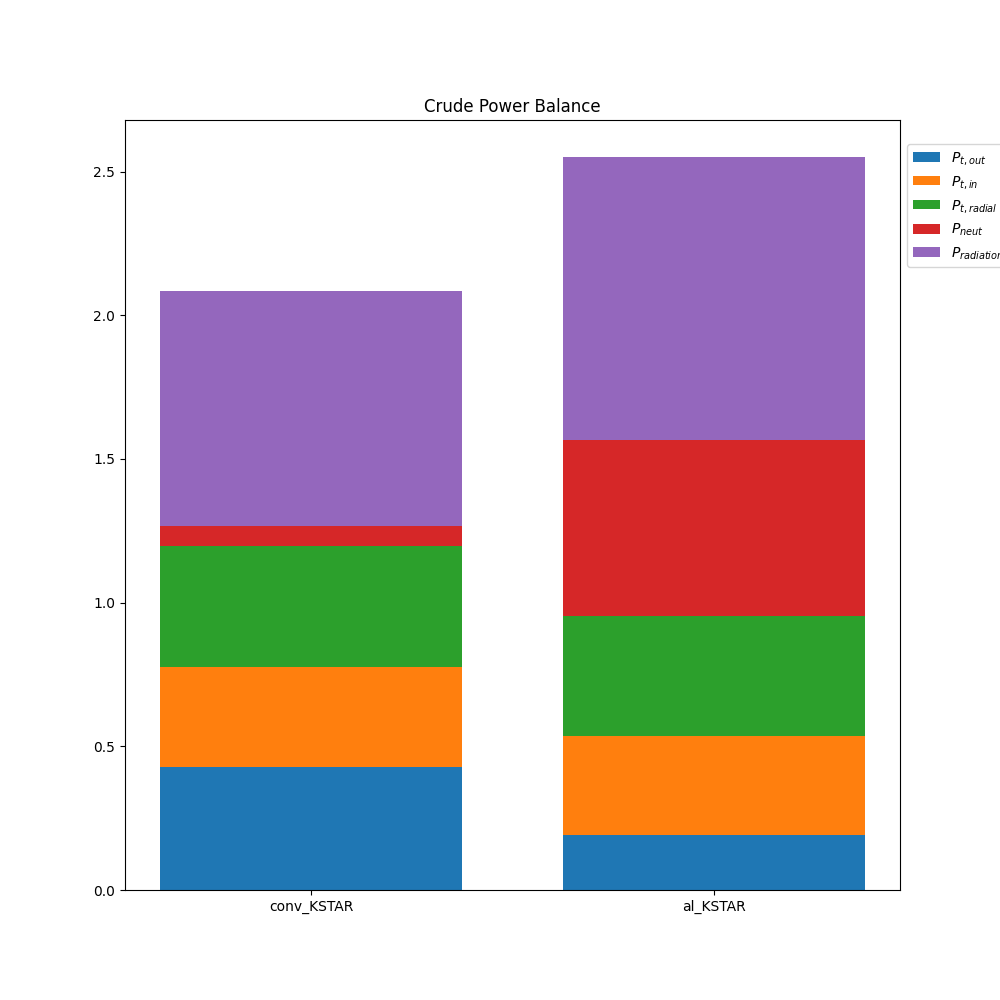
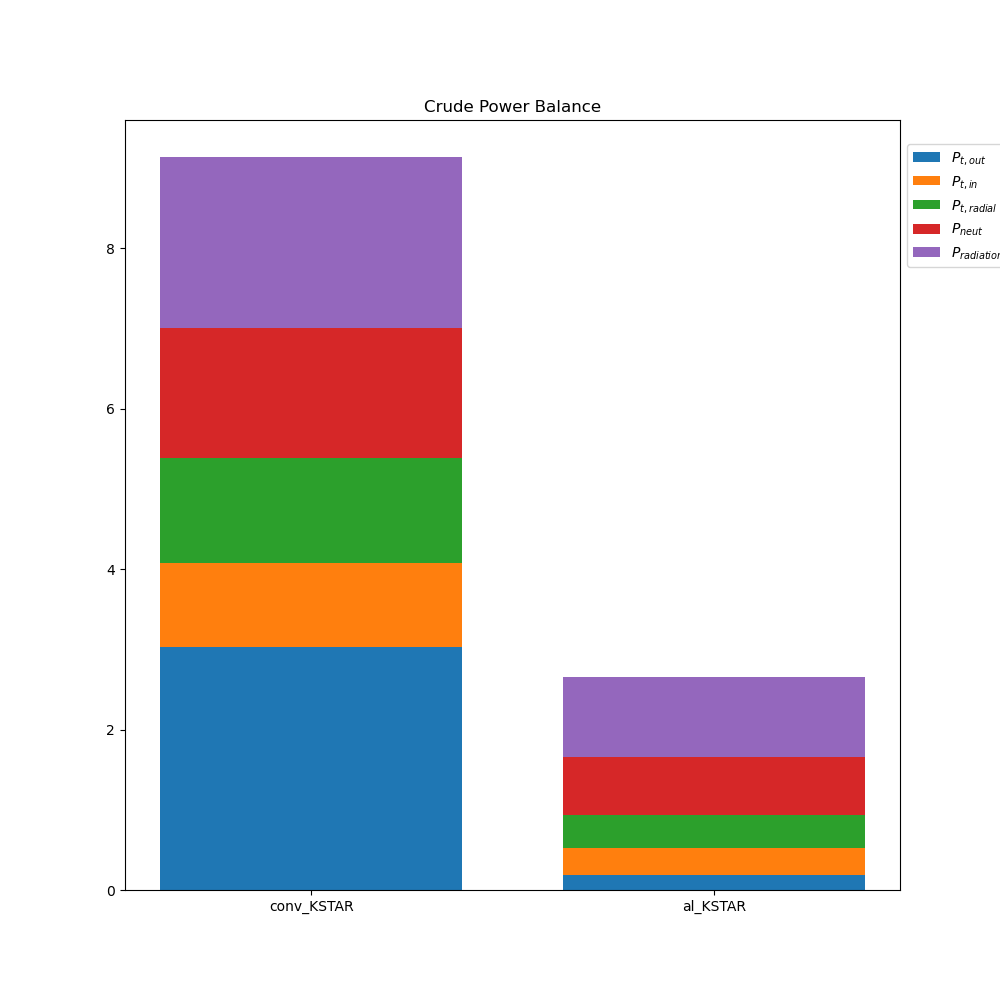
relocation

diff --git a/Integrated_Standalone_EB.py b/Integrated_Standalone_EB.py
@@ -14,15 +14,28 @@ fname_list = list()
 fpath_list = list()
 base_list  = list()
 data_list = list()
+puff = "noNe"
 
 ssh=paramiko.SSHClient()
 ssh.set_missing_host_key_policy(paramiko.AutoAddPolicy)
-fname_list.append("co_Ne_0_KSTAR")
-fpath_list.append("/home/chanyeong/solps-iter/runs/conventionalgeo_no_neon/Baseline_KSTAR")
-    
-fname_list.append("new_mesh_al_Ne_0_KSTAR")
-fpath_list.append("/home/chanyeong/solps-iter/runs/SAS_Ne_zero/Baseline_KSTAR")
+fname_list = list()
+fpath_list = list()
 
+fname_list.append("b2fplasmf_co_8MW_%s" %puff)
+fpath_list.append("/home/chanyeong/solps-iter/runs/Con_Ne_0_Heating/8MW_Con")
+#fname_list.append("b2fplasmf_co_16MW_%s" %puff)
+#fpath_list.append("/home/chanyeong/solps-iter/runs/Con_Ne_0_Heating/16MW_Con")
+#fname_list.append("b2fplasmf_co_32MW_%s" %puff)
+#fpath_list.append("/home/chanyeong/solps-iter/runs/Con_Ne_0_Heating/32MW_Con")
+
+fname_list.append("b2fplasmf_SAS_8MW_%s" %puff)
+fpath_list.append("/home/chanyeong/solps-iter/runs/SAS_Ne_0_Heating/2_5MW_SAS")
+#fname_list.append("b2fplasmf_SAS_8MW_%s" %puff)
+#fpath_list.append("/home/chanyeong/solps-iter/runs/SAS_Ne_0_Heating/8MW_SAS")
+#fname_list.append("b2fplasmf_SAS_16MW_%s" %puff)
+#fpath_list.append("/home/chanyeong/solps-iter/runs/SAS_Ne_0_Heating/16MW_SAS")
+#fname_list.append("b2fplasmf_SAS_32MW_%s" %puff)
+#fpath_list.append("/home/chanyeong/solps-iter/runs/SAS_Ne_0_Heating/32MW_SAS")
 
 ID = input("Insert ID : ")
 pw = getpass.getpass("Insert P.W : ")
@@ -223,7 +236,7 @@ def Global_internal_energy_balance(fht,nc):
         sum_eirene_mc_eipl_shi_bal = np.sum(eirene_mc_eipl_shi_bal)
         sum_eirene_mc_eppl_shi_bal = np.sum(eirene_mc_eppl_shi_bal)
 
-        return (sum_eirene_mc_eael_she_bal+sum_eirene_mc_emel_she_bal+sum_eirene_mc_eiel_she_bal+sum_eirene_mc_epel_she_bal +sum_eirene_mc_eapl_shi_bal+sum_eirene_mc_eapl_shi_bal+sum_eirene_mc_eapl_shi_bal+sum_eirene_mc_eapl_shi_bal)/1000000
+        return (sum_eirene_mc_eael_she_bal+sum_eirene_mc_emel_she_bal+sum_eirene_mc_eiel_she_bal+sum_eirene_mc_epel_she_bal +sum_eirene_mc_eapl_shi_bal+sum_eirene_mc_empl_shi_bal+sum_eirene_mc_eipl_shi_bal+sum_eirene_mc_eppl_shi_bal)/1000000
 
     def radiation_loss():
         stel_terms  = np.sum(nc_balance['b2stel_she_bal'][:])+np.sum(nc_balance['b2stel_she_ion_bal'][:])+np.sum(nc_balance['b2stel_she_rec_bal'][:])+np.sum(nc_balance['b2stel_shi_ion_bal'][:])+np.sum(nc_balance['b2stel_shi_rec_bal'][:]) 
@@ -255,7 +268,7 @@ def Global_internal_energy_balance(fht,nc):
 #    plt.axhline(color = 'black',linewidth = 0.5)
 
     plt.show()
-    return [heat_flux(fht)[0],heat_flux(fht)[1],heat_flux(fht)[2]+heat_flux(fht)[3]+heat_flux(fht)[4],-eirene_sum(),-radiation_loss(),-other_source()]
+    return [heat_flux(fht)[0],heat_flux(fht)[1],heat_flux(fht)[2]+heat_flux(fht)[3]+heat_flux(fht)[4],-eirene_sum(),-radiation_loss(),-other_source()-heating_terms()]
 
     
 out_div = np.zeros(len(fname_list))
@@ -264,8 +277,6 @@ in_div = np.zeros(len(fname_list))
 neutral_loss = np.zeros(len(fname_list))
 rad_loss = np.zeros(len(fname_list))
 other = np.zeros(len(fname_list))
-
-
 
 for k in range(len(fname_list)):
     fht_name = "/Users/chanyeonglee/LAB_local/data_postprocessing/output_new/fht_b2fplasmf_%s.npy" %fname_list[k]

diff --git a/SOLPS_control_codes/Run_b2wdat_iout.py b/SOLPS_control_codes/Run_b2wdat_iout.py
@@ -1,0 +1,59 @@
+import os, sys
+import subprocess
+from datetime import datetime
+
+current_dir = os.getcwd()
+text_file_path = './b2mn.dat'
+new_text_content = ''
+
+time = datetime.now()
+
+switch = 0
+position_return = 0
+
+with open(text_file_path,'r') as f:
+	lines = f.readlines()
+	for i, l in enumerate(lines):
+		if i == 6:
+			new_string = "'b2mndr_ntim'   '1'"
+		else:
+			new_string = l.strip()
+		if new_string:
+			new_text_content += new_string + '\n'
+		else:
+			new_text_content += '\n'
+
+with open(text_file_path,'w') as f:
+	f.write(new_text_content)
+
+
+new_text_content2 = ''
+with open(text_file_path,'r') as f:
+	lines = f.readlines()
+	for i, l in enumerate(lines):
+		if l.find('b2wdat_iout') !=-1:
+			new_string2 = "'b2wdat_iout'	'4'"
+			switch =1
+			position_return = l
+		else:
+			new_string2 = l.strip()
+		if new_string2:
+			new_text_content2 += new_string2 + '\n'
+		else:
+			new_text_content2 += '\n'
+
+with open(text_file_path,'w') as f:
+    f.write(new_text_content2)
+
+k=open(text_file_path,'a')
+if switch ==0:
+	k.write("'b2wdat_iout'	'4'")
+	print('there was no b2wdat_iout, so added')
+else:
+	print("b2wdat_iout already setted.")
+k.close()
+subprocess.run(["b2run", "b2mn", "< input.dat >" ,"run.log", "&"])
+
+g = open("/home/chanyeong/solps-iter/ex_log.txt", "a")
+g.write("I execute b2run for b2wdat data in %s at %s \n" %(current_dir, time))
+g.close()

diff --git a/Energy_Balance_integrated_server.py b/Energy_Balance_integrated_server.py
@@ -4,8 +4,8 @@ from mpl_toolkits.mplot3d import axes3d
 
 import netCDF4
 
-file_location = input("Insert location of balance.nc file : ")
-nc_balance = netCDF4.Dataset(file_location)
+#file_location = input("Insert location of balance.nc file : ")
+nc_balance = netCDF4.Dataset("balance_SAS_Ne0_32MW.nc")
 
 fhi_32      = nc_balance['fhi_32'][:]
 fhi_52      = nc_balance['fhi_52'][:]
@@ -79,7 +79,7 @@ def eirene_sum():
     sum_eirene_mc_eipl_shi_bal = np.sum(eirene_mc_eipl_shi_bal)
     sum_eirene_mc_eppl_shi_bal = np.sum(eirene_mc_eppl_shi_bal)
     
-    return (sum_eirene_mc_eael_she_bal+sum_eirene_mc_emel_she_bal+sum_eirene_mc_eiel_she_bal+sum_eirene_mc_epel_she_bal +sum_eirene_mc_eapl_shi_bal+sum_eirene_mc_eapl_shi_bal+sum_eirene_mc_eapl_shi_bal+sum_eirene_mc_eapl_shi_bal)/1000000
+    return (sum_eirene_mc_eael_she_bal+sum_eirene_mc_emel_she_bal+sum_eirene_mc_eiel_she_bal+sum_eirene_mc_epel_she_bal +sum_eirene_mc_eapl_shi_bal)#+sum_eirene_mc_empl_shi_bal+sum_eirene_mc_eipl_shi_bal+sum_eirene_mc_eppl_shi_bal)/1000000
 
 def other_source():
     heat_source= np.sum(nc_balance['b2srst_shi_bal'][:])+np.sum(nc_balance['b2srst_she_bal'][:])

diff --git a/Energy_Balance_integrated.py b/Energy_Balance_integrated.py
@@ -4,8 +4,8 @@ from mpl_toolkits.mplot3d import axes3d
 
 import netCDF4
 
-file_location = input("Insert location of balance.nc file : ")
-nc_balance = netCDF4.Dataset(file_location)
+#file_location = input("Insert location of balance.nc file : ")
+nc_balance = netCDF4.Dataset('balance_SAS_Ne0_32MW.nc')
 
 fhi_32      = nc_balance['fhi_32'][:]
 fhi_52      = nc_balance['fhi_52'][:]
